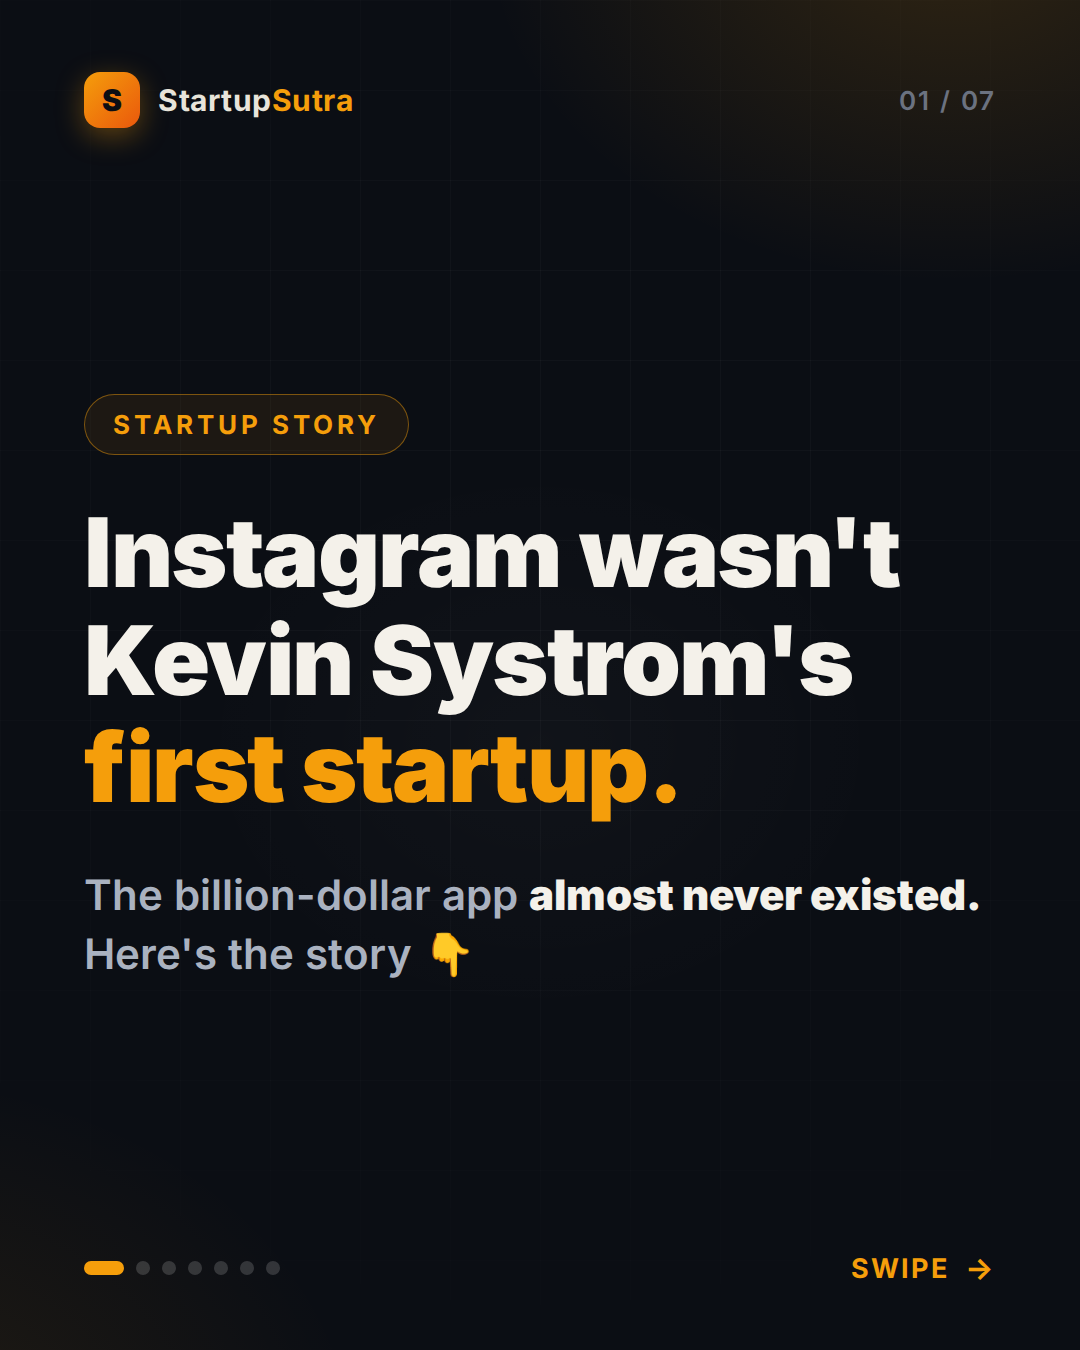
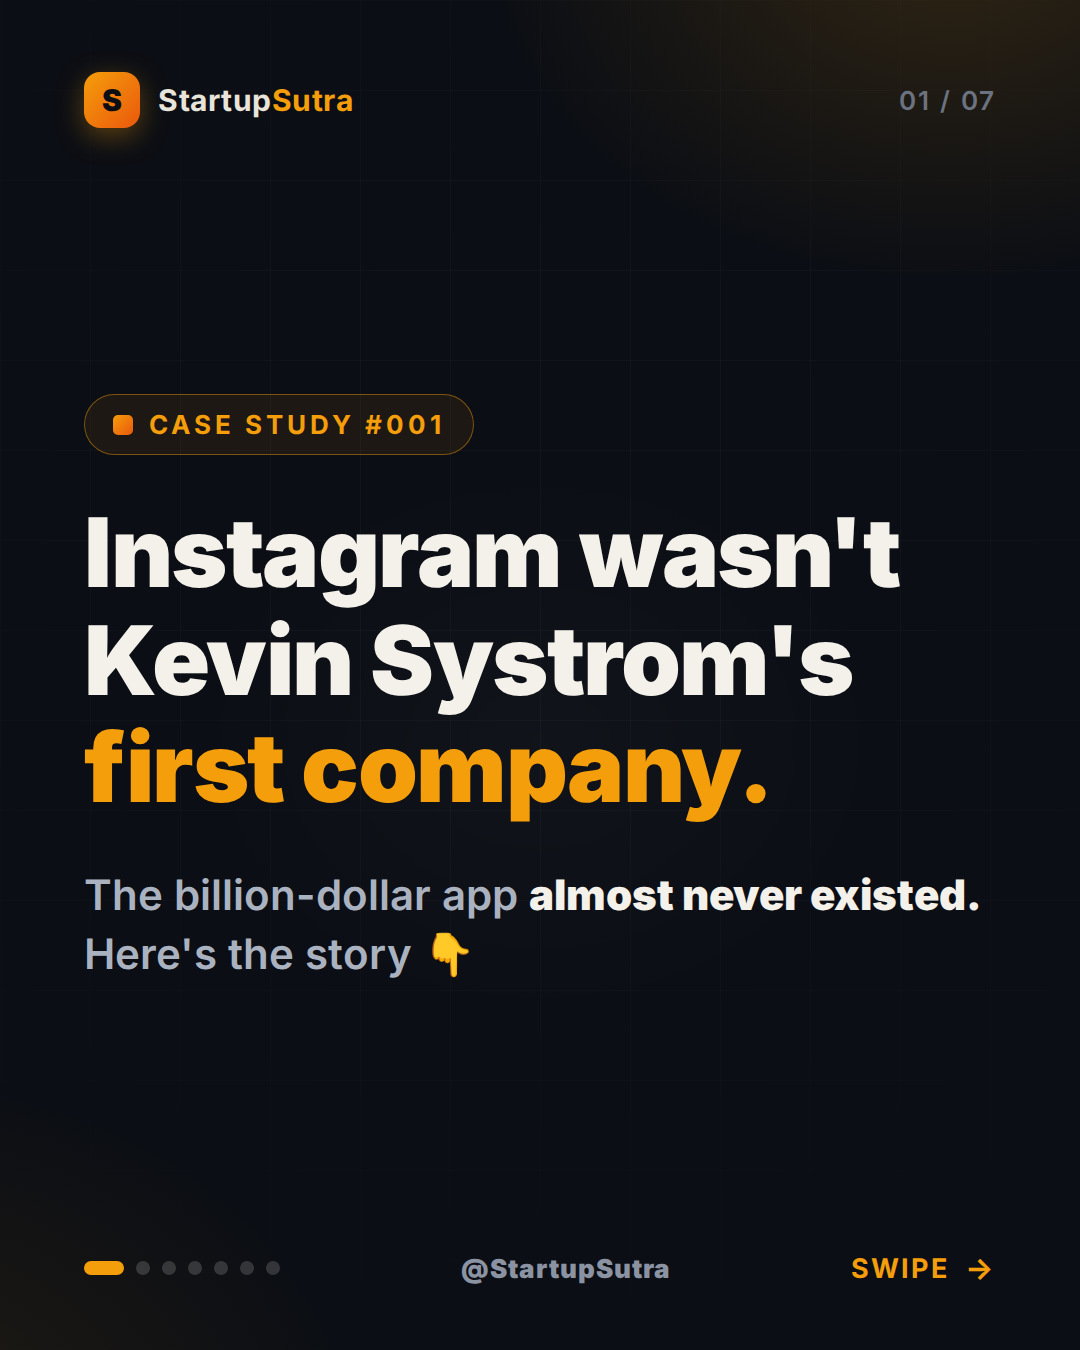
Revise carousel per feedback: sharper copy, Case Study #001 tag, per-slide footer, redesigned stat and CTA slides
Claude-Session: https://claude.ai/code/session_01LRcEgKfHXnrMC6oknzTBx2

Changed region(s): [[0.275, 0.5289, 0.7028, 0.6222], [0.0917, 0.28, 0.4278, 0.3422], [0.4278, 0.9333, 0.6111, 0.9644]]

diff --git a/StartupSutra/2026-07-19-instagram-focus-beats-features/source/carousel.html b/StartupSutra/2026-07-19-instagram-focus-beats-features/source/carousel.html
@@ -53,12 +53,13 @@
   .body { flex:1; display:flex; flex-direction:column; justify-content:center; }
 
   .kicker {
-    display:inline-flex; align-self:flex-start; align-items:center; gap:14px;
+    display:inline-flex; align-self:flex-start; align-items:center; gap:16px;
     font-weight:700; font-size:26px; letter-spacing:4px; text-transform:uppercase;
     color:#f59e0b; margin-bottom:44px;
     padding:14px 28px; border:1.5px solid rgba(245,158,11,.45); border-radius:999px;
     background:rgba(245,158,11,.08);
   }
+  .kicker .sq { width:20px; height:20px; border-radius:5px; background:linear-gradient(135deg,#f59e0b,#ea580c); flex-shrink:0; }
 
   h1 { font-weight:900; font-size:96px; line-height:1.12; letter-spacing:-1.5px; }
   h1 .accent { color:#f59e0b; }
@@ -94,6 +95,8 @@
   }
 
   .bottombar { display:flex; justify-content:space-between; align-items:center; color:#6b7280; font-weight:600; font-size:27px; }
+  .foot { font-weight:700; font-size:26px; color:#525a68; letter-spacing:1px; }
+  .foot b { color:#8b93a3; }
   .swipe { display:flex; align-items:center; gap:16px; color:#f59e0b; letter-spacing:2px; text-transform:uppercase; font-weight:700; }
   .swipe .arr { font-size:30px; }
   .dots { display:flex; gap:12px; }
@@ -109,12 +112,13 @@
       <div class="counter">01 / 07</div>
     </div>
     <div class="body">
-      <div class="kicker">Startup Story</div>
-      <h1>Instagram wasn't Kevin Systrom's <span class="accent">first startup.</span></h1>
+      <div class="kicker"><span class="sq"></span>Case Study #001</div>
+      <h1>Instagram wasn't Kevin Systrom's <span class="accent">first company.</span></h1>
       <div class="sub">The billion-dollar app <strong>almost never existed.</strong> Here's the story 👇</div>
     </div>
     <div class="bottombar">
       <div class="dots"><i class="on"></i><i></i><i></i><i></i><i></i><i></i><i></i></div>
+      <div class="foot"><b>@StartupSutra</b></div>
       <div class="swipe">Swipe <span class="arr">→</span></div>
     </div>
   </div>
@@ -135,10 +139,11 @@
         <div class="item"><span class="ico">📸</span><span class="txt">Photo sharing</span></div>
         <div class="item"><span class="ico">👥</span><span class="txt">Social networking</span></div>
       </div>
-      <div class="sub">It tried to do <strong>everything.</strong></div>
+      <div class="sub">It tried to be <strong>everything.</strong></div>
     </div>
     <div class="bottombar">
       <div class="dots"><i></i><i class="on"></i><i></i><i></i><i></i><i></i><i></i></div>
+      <div class="foot"><b>@StartupSutra</b></div>
       <div class="swipe">Swipe <span class="arr">→</span></div>
     </div>
   </div>
@@ -157,6 +162,7 @@
     </div>
     <div class="bottombar">
       <div class="dots"><i></i><i></i><i class="on"></i><i></i><i></i><i></i><i></i></div>
+      <div class="foot"><b>@StartupSutra</b></div>
       <div class="swipe">Swipe <span class="arr">→</span></div>
     </div>
   </div>
@@ -170,7 +176,7 @@
       <div class="counter">04 / 07</div>
     </div>
     <div class="body">
-      <h1 style="font-size:80px;">Instead of adding more features…<br><span class="accent">they removed almost everything.</span></h1>
+      <h1 style="font-size:80px;"><span class="dim">They didn't add another feature.</span><br><span class="accent">They deleted almost everything.</span></h1>
       <div class="list">
         <div class="item dead"><span class="ico">📍</span><span class="txt">Check-ins</span></div>
         <div class="item dead"><span class="ico">🎮</span><span class="txt">Gaming</span></div>
@@ -180,6 +186,7 @@
     </div>
     <div class="bottombar">
       <div class="dots"><i></i><i></i><i></i><i class="on"></i><i></i><i></i><i></i></div>
+      <div class="foot"><b>@StartupSutra</b></div>
       <div class="swipe">Swipe <span class="arr">→</span></div>
     </div>
   </div>
@@ -195,12 +202,15 @@
     <div class="body">
       <h1 style="font-size:84px;">That became…<br><span class="accent">Instagram.</span></h1>
       <div class="bigstat">
-        <div class="num">1,000,000</div>
-        <div class="lbl">users — just <strong style="color:#f4f1ea;">2 months</strong> after launch 🚀</div>
+        <div class="num" style="font-size:132px;">1 Million</div>
+        <div class="lbl" style="font-size:44px; margin-top:2px;">users</div>
+        <div class="lbl" style="margin-top:48px; font-size:40px;">in just</div>
+        <div style="font-weight:900; font-size:110px; letter-spacing:-2px; color:#f59e0b; line-height:1.05;">2 months. 🚀</div>
       </div>
     </div>
     <div class="bottombar">
       <div class="dots"><i></i><i></i><i></i><i></i><i class="on"></i><i></i><i></i></div>
+      <div class="foot"><b>@StartupSutra</b></div>
       <div class="swipe">Swipe <span class="arr">→</span></div>
     </div>
   </div>
@@ -215,11 +225,12 @@
     </div>
     <div class="body">
       <div class="kicker">Startup Lesson</div>
-      <h1 style="font-size:88px;"><span class="dim">Don't build more.</span><br><br>Build what people <span class="accent">actually use.</span></h1>
+      <h1 style="font-size:84px;"><span class="dim">Stop building more.</span><br><br>Start improving what people <span class="accent">already love.</span></h1>
       <div class="quotecard" style="font-size:56px;">Focus <span style="color:#f59e0b;">beats</span> features.</div>
     </div>
     <div class="bottombar">
       <div class="dots"><i></i><i></i><i></i><i></i><i></i><i class="on"></i><i></i></div>
+      <div class="foot"><b>@StartupSutra</b></div>
       <div class="swipe">Swipe <span class="arr">→</span></div>
     </div>
   </div>
@@ -234,16 +245,21 @@
     </div>
     <div class="body">
       <div class="kicker">Your Turn</div>
-      <h1 style="font-size:78px;">What's one app that won by doing <span class="accent">less, not more?</span></h1>
-      <div class="sub">Drop it in the comments 👇</div>
-      <div class="quotecard" style="margin-top:64px; display:flex; align-items:center; gap:28px; font-size:44px;">
+      <h1 style="font-size:72px;">What's another startup that became successful by <span class="accent">simplifying?</span></h1>
+      <div class="list" style="margin-top:56px; gap:22px;">
+        <div class="item" style="font-size:38px; padding:24px 34px;"><span class="ico">👇</span><span class="txt">Tell us below</span></div>
+        <div class="item" style="font-size:38px; padding:24px 34px;"><span class="ico">❤</span><span class="txt">Save this post</span></div>
+        <div class="item" style="font-size:38px; padding:24px 34px;"><span class="ico">🔁</span><span class="txt">Share it with a founder</span></div>
+      </div>
+      <div class="quotecard" style="margin-top:52px; display:flex; align-items:center; gap:28px; font-size:44px; padding:34px 44px;">
         <div class="mark" style="width:72px;height:72px;border-radius:20px;background:linear-gradient(135deg,#f59e0b,#ea580c);display:flex;align-items:center;justify-content:center;font-weight:900;font-size:38px;color:#0b0e14;flex-shrink:0;">S</div>
         <div>Follow <span style="color:#f59e0b;">@StartupSutra</span><br><span style="font-weight:600;font-size:32px;color:#aab2c0;">for daily startup stories</span></div>
       </div>
     </div>
     <div class="bottombar">
       <div class="dots"><i></i><i></i><i></i><i></i><i></i><i></i><i class="on"></i></div>
-      <div class="swipe" style="color:#6b7280;">❤ Save this post</div>
+      <div class="foot"><b>@StartupSutra</b></div>
+      <div class="swipe">Case Study #002 soon</div>
     </div>
   </div>
 </div>
